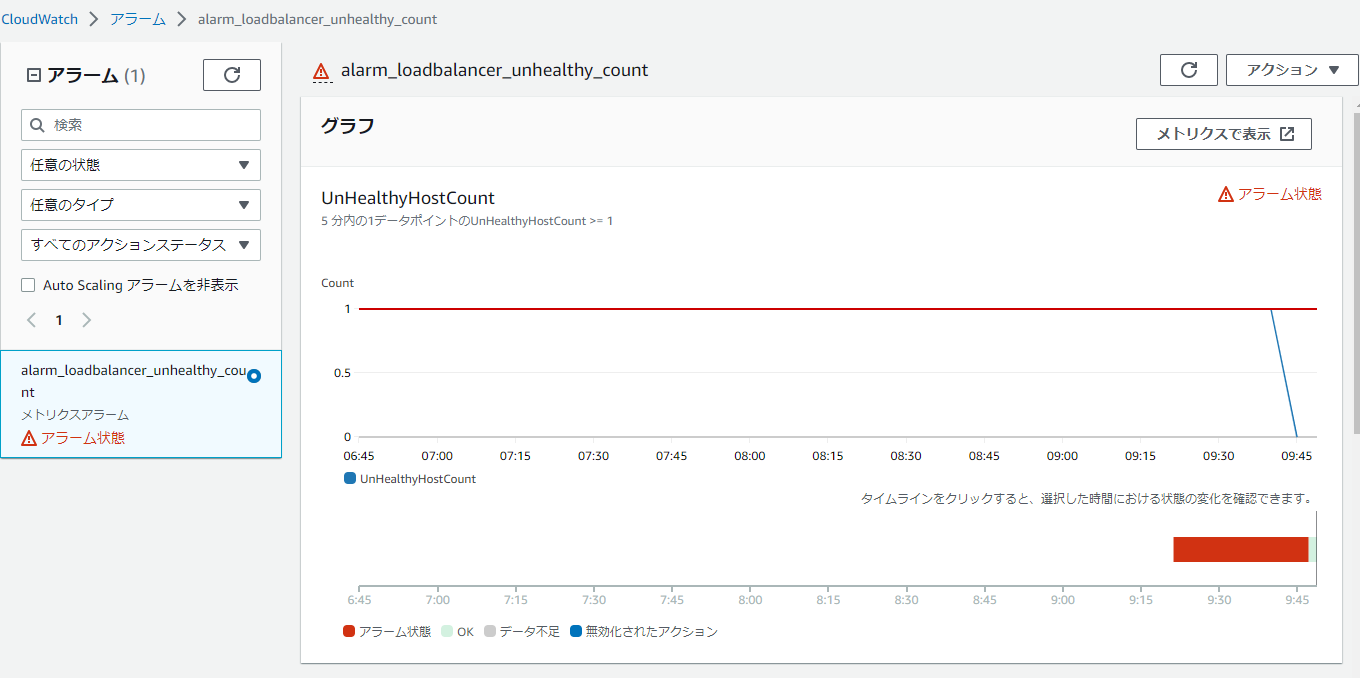
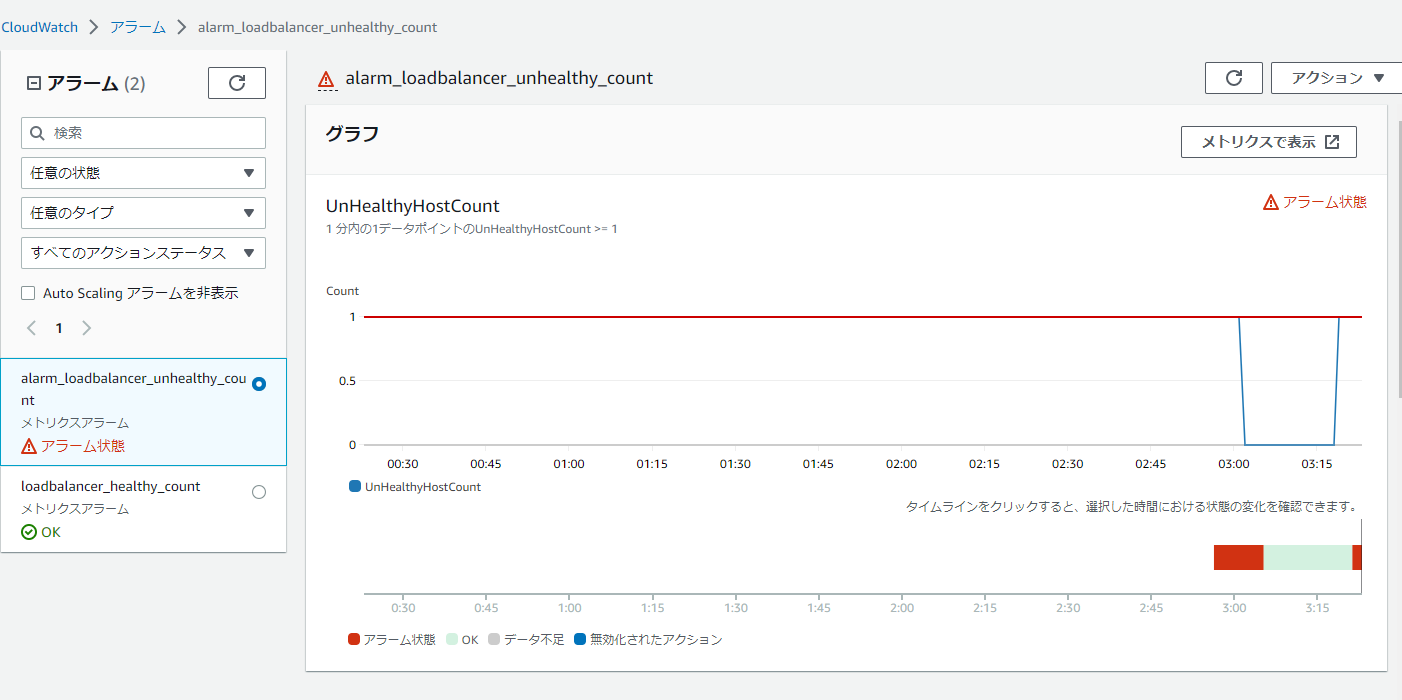
アラームが逆転していたのを修正

diff --git a/lecture06.md b/lecture06.md
@@ -21,13 +21,13 @@
 
 ## CloudWatch課題
 
-- Nginx + Unicorn稼働時
-  - Cloud Watch alarm
+- Nginx + Unicorn稼働時  
+  - Cloud Watch alarm  
     ![アラームOK](./img/cloud_watch_alarm_ok.png)
   - アラームメール  
     ![アラームOKメール](./img/sns_ok_mail.png)
 
-- Nginx停止時
+- Unicorn停止時
   - Cloud Watch alarm
     ![アラームNG](./img/cloud_watch_alarm_ng.png)
   - アラームメール  
